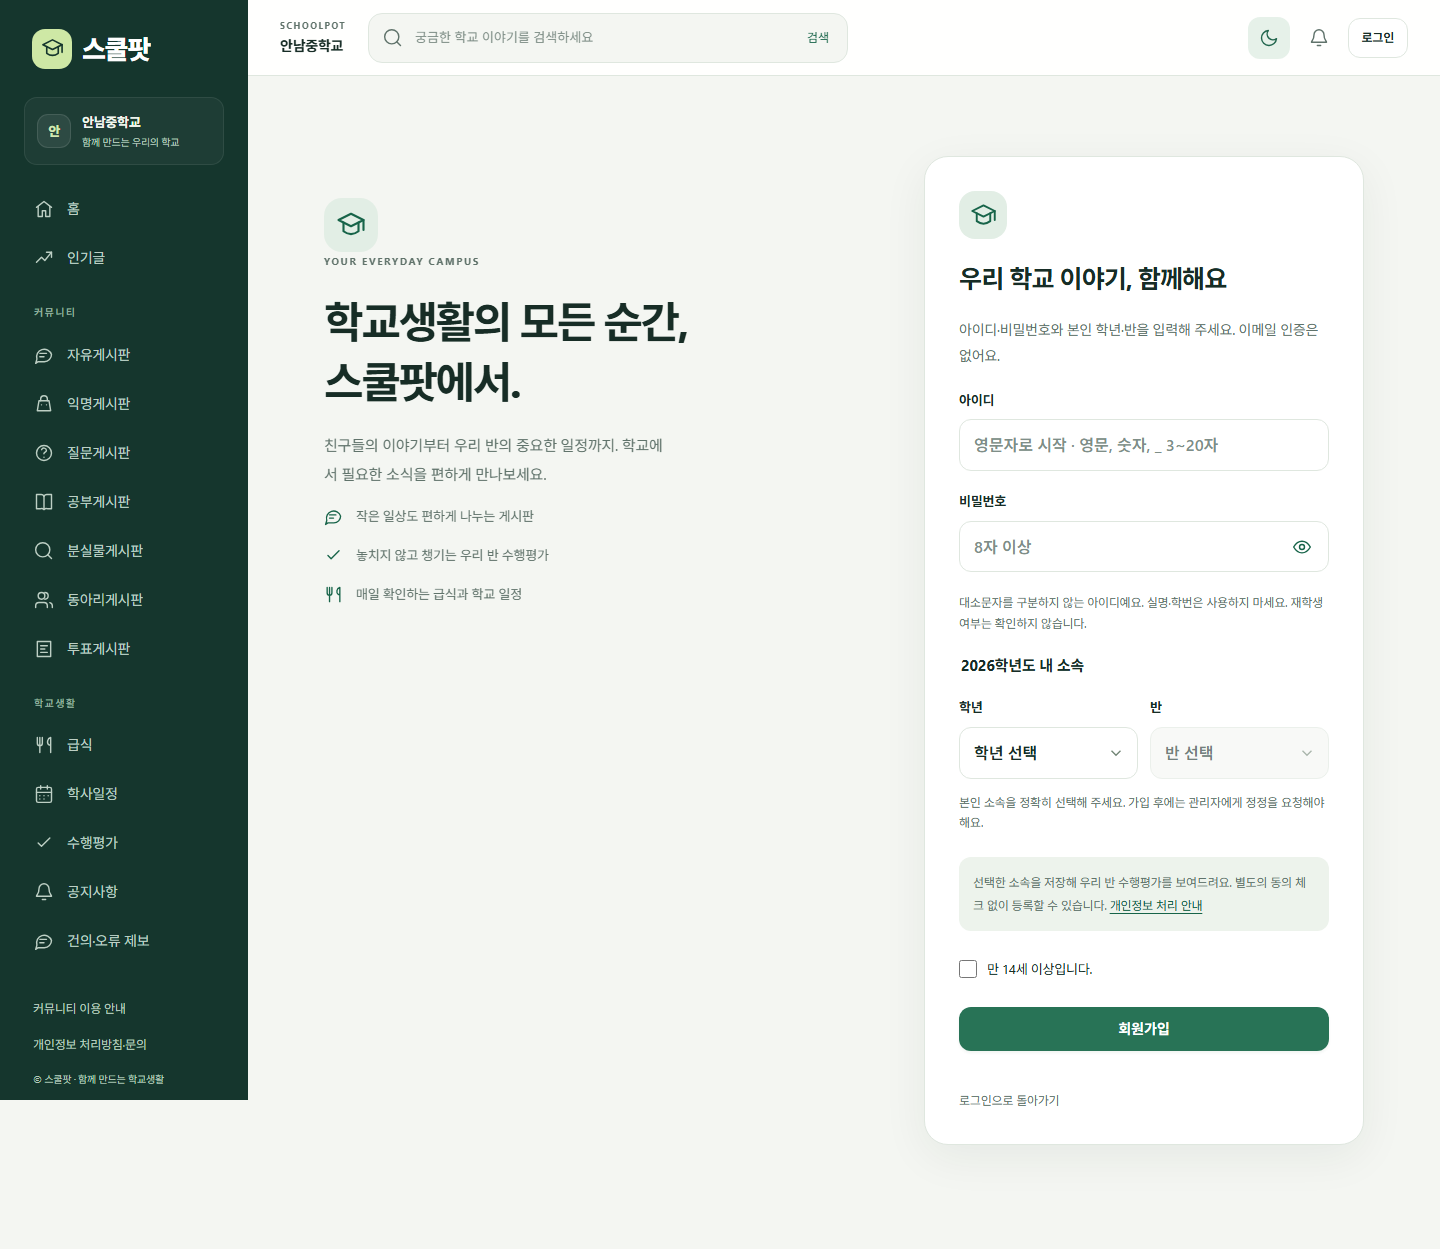
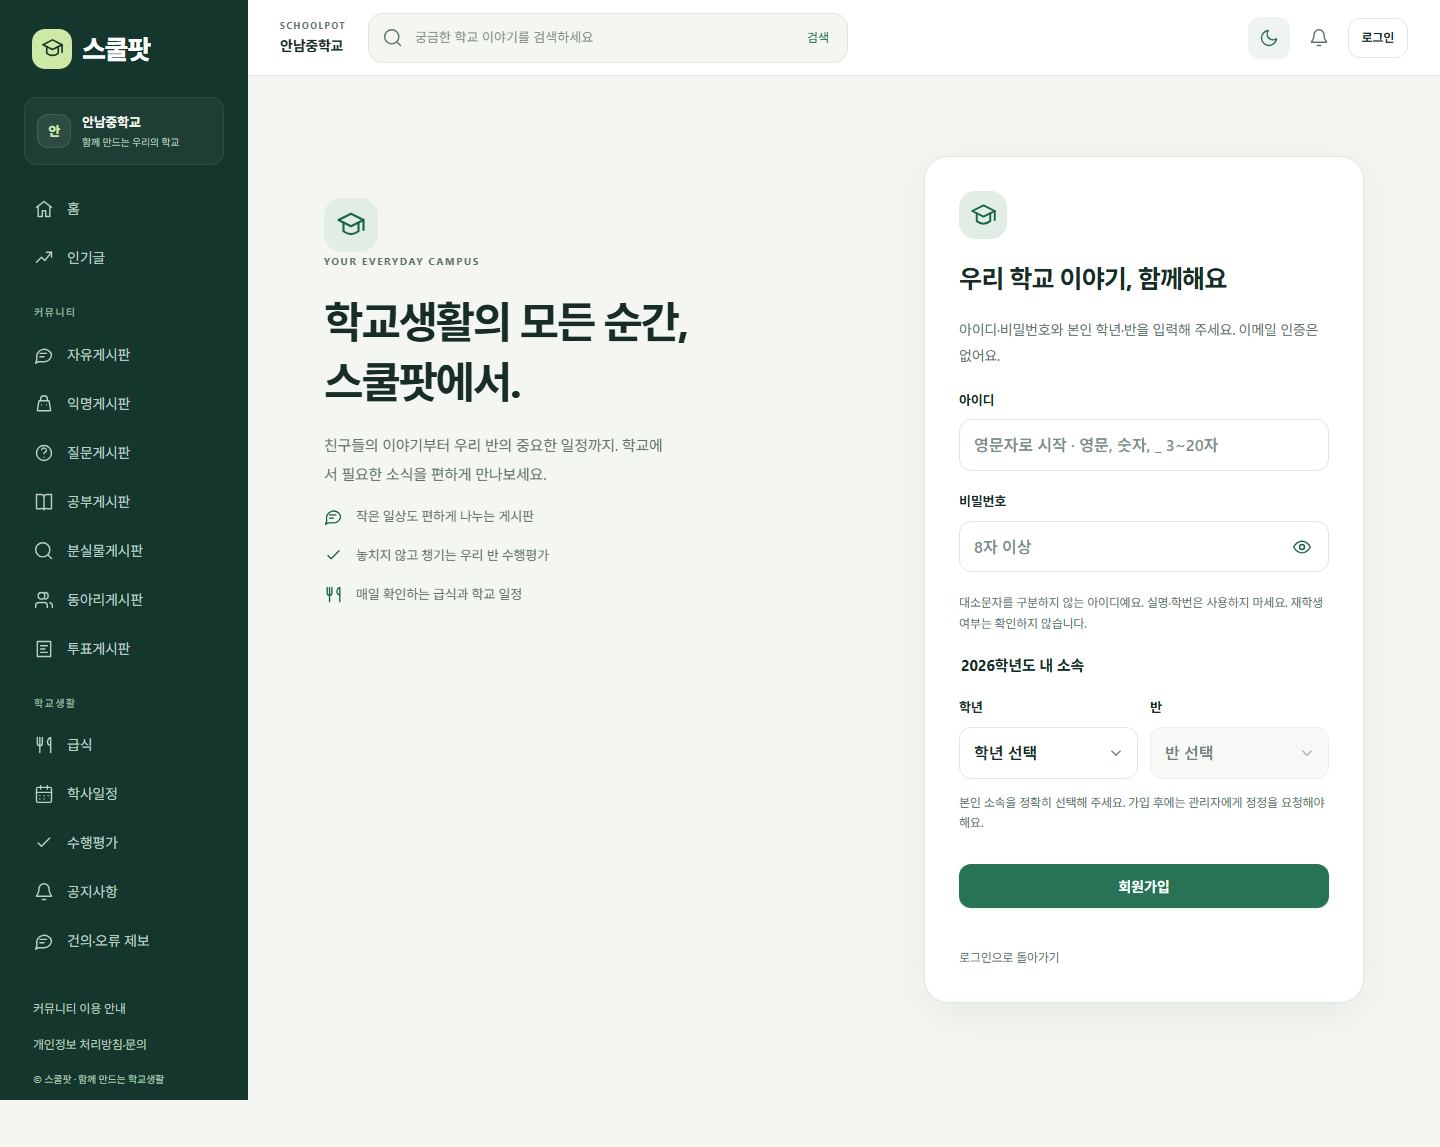
Remove withdrawn contact and simplify privacy and signup prompts

diff --git a/src/components/enrollment.js b/src/components/enrollment.js
@@ -1,4 +1,4 @@
-import { el, link } from '../lib/dom.js';
+import { el } from '../lib/dom.js';
 export function privacyContent(setup) {
   const p = setup.policy;
   return el(
@@ -6,32 +6,6 @@ export function privacyContent(setup) {
     { class: 'privacy-content prose' },
     el('p', { class: 'hint' }, `개인정보처리자: ${p.controller} · 문서 버전 ${p.version}`),
     ...p.sections.map(([title, body]) => el('section', {}, el('h3', {}, title), el('p', {}, body))),
-    el('h3', {}, '위탁·국외 처리 및 보안 기록'),
-    el(
-      'p',
-      { class: 'preserve' },
-      p.overseas_notice ||
-        '처리업체·처리 국가·로그 및 백업 보유기간의 상세 안내는 운영자가 확인 중입니다. 문의는 아래 이메일로 접수할 수 있습니다.',
-    ),
-    el('h3', {}, '개인정보 문의와 권리행사'),
-    p.contact_email
-      ? el('a', { class: 'privacy-email', href: `mailto:${p.contact_email}` }, p.contact_email)
-      : null,
-    el(
-      'p',
-      {},
-      '서비스 내 건의·오류 제보 또는 로그인 없이 이용할 수 있는 외부 문의 경로를 사용해 주세요.',
-    ),
-    el(
-      'a',
-      { href: p.contact_url, target: '_blank', rel: 'noopener noreferrer' },
-      '스쿨팟 개인정보 문의 (외부 사이트)',
-    ),
-    el(
-      'p',
-      { class: 'hint' },
-      '개인정보 열람·정정·삭제·처리정지와 동의 철회에 관한 문의도 위 경로로 접수할 수 있습니다.',
-    ),
   );
 }
 export function enrollmentFields(setup, existing) {
@@ -85,12 +59,6 @@ export function enrollmentFields(setup, existing) {
       { class: 'hint' },
       '본인 소속을 정확히 선택해 주세요. 가입 후에는 관리자에게 정정을 요청해야 해요.',
     ),
-    el(
-      'p',
-      { class: 'processing-note' },
-      '선택한 소속을 저장해 우리 반 수행평가를 보여드려요. 별도의 동의 체크 없이 등록할 수 있습니다. ',
-      link('개인정보 처리 안내', '#/privacy', 'inline-link'),
-    ),
   );
 }
 export function enrollmentPayload(form, setup, existing) {
@@ -100,6 +68,5 @@ export function enrollmentPayload(form, setup, existing) {
     grade: existing?.grade || Number(data.get('grade')),
     class_number: existing?.class_number || Number(data.get('class_number')),
     policy_version: setup.policy.version,
-    age_14_confirmed: data.has('age_14_confirmed'),
   };
 }

diff --git a/src/config/privacy.js b/src/config/privacy.js
@@ -5,18 +5,10 @@ export const privacySections = [
   ],
   [
     '최소 수집 항목',
-    '계정과 소속 정보, 가입 시 만 14세 이상 본인 확인, 로그인 세션과 서비스 운영 기록 및 본인이 작성한 내용입니다. 학생 실명·학번·학생증·생년월일·실제 이메일은 요구하지 않습니다. 별도의 광고·홍보 동의나 추적 기능은 추가하지 않습니다.',
+    '계정과 소속 정보, 로그인 세션과 서비스 운영 기록 및 본인이 작성한 내용입니다. 학생 실명·학번·학생증·생년월일·실제 이메일은 요구하지 않습니다. 별도의 광고·홍보 동의나 추적 기능은 추가하지 않습니다.',
   ],
   [
     '보유 및 삭제',
-    '계정·소속과 계정 연결 작성 내용은 회원탈퇴 시 운영 DB에서 삭제합니다. 본인 게시글에 달린 답글도 삭제될 수 있습니다. 외부 처리업체 로그·백업과 별도 보안 기록은 해당 처리방침과 운영 조건을 따르므로 즉시 완전 삭제를 보장하지 않습니다.',
-  ],
-  [
-    '열람·정정·삭제·처리정지',
-    '로그인한 회원은 계정 관리와 건의·오류 제보를 이용할 수 있고, 로그인할 수 없거나 탈퇴한 뒤에도 공개된 이메일로 개인정보 권리행사를 요청할 수 있습니다. 비밀번호·복구 코드·주민등록번호·학생증 사본은 이메일에 보내지 마세요. 필요한 범위에서 본인 확인 후 처리 결과와 제한 사유 및 이의제기 방법을 안내합니다.',
-  ],
-  [
-    '소속과 연령 안내',
-    '가입 시 만 14세 이상임을 확인합니다. 소속과 연령은 자기 신고이며 실제 재학생·연령 인증이 아닙니다. 같은 학년도에서 소속을 임의 변경할 수 없고 정정은 관리자에게 요청합니다.',
+    '계정·소속과 계정 연결 작성 내용은 회원탈퇴 시 운영 DB에서 삭제합니다. 본인 게시글에 달린 답글도 삭제될 수 있습니다.',
   ],
 ];

diff --git a/src/pages/admin-classes.js b/src/pages/admin-classes.js
@@ -206,7 +206,6 @@ export async function privacyManager(reload) {
           await schoolMembership('admin_save_policy', {
             version: p.version,
             controller: data.get('controller'),
-            contact_email: data.get('contact_email'),
             contact_url: data.get('contact_url'),
             overseas_notice: data.get('overseas_notice'),
             is_ready: data.has('is_ready'),
@@ -237,11 +236,6 @@ export async function privacyManager(reload) {
       maxlength: 400,
       value: p.contact_url,
     }),
-    field('개인정보 문의 이메일', 'contact_email', 'email', {
-      required: true,
-      maxlength: 254,
-      value: p.contact_email || 'kminjae803@naver.com',
-    }),
     field('위탁·국외 처리·보안 기록 보유기간 안내', 'overseas_notice', 'textarea', {
       required: true,
       maxlength: 8000,
@@ -252,11 +246,7 @@ export async function privacyManager(reload) {
       { class: 'hint' },
       'Supabase 프로젝트 DB 리전은 한국 서울입니다. 이것만으로 인증·Edge·지원·하위 처리업체와 GitHub Pages의 모든 처리가 국내에만 있다고 볼 수는 없습니다. 실제 계약·하위 처리업체·국가·연락처·이전 항목/시점/방법·목적·보유기간·거부 방법과 영향을 확인해 명시하세요. 보안 해시 카운터의 보유기간과 외부 사업자 로그·백업의 삭제 절차도 고지해야 합니다.',
     ),
-    el(
-      'p',
-      { class: 'hint' },
-      '공개 이메일의 문의를 정기적으로 확인해 주세요. 문서 저장과 검토 표시만으로 법적 검토가 완료되는 것은 아닙니다.',
-    ),
+    el('p', { class: 'hint' }, '문서 저장과 검토 표시만으로 법적 검토가 완료되는 것은 아닙니다.'),
     el(
       'label',
       { class: 'checkbox' },

diff --git a/src/main.js b/src/main.js
@@ -171,7 +171,7 @@ async function render() {
           el(
             'p',
             {},
-            '만 14세 이상인 분이 아이디·8자 이상 비밀번호·본인 학년과 반을 입력하고 가입할 수 있어요. 이메일 인증이나 재학생 인증 신청은 받지 않으며, 연령·소속은 본인 신고에 따릅니다.',
+            '아이디·8자 이상 비밀번호·본인 학년과 반을 입력하고 가입할 수 있어요. 이메일 인증이나 재학생 인증 신청은 받지 않으며, 연령·소속은 본인 신고에 따릅니다.',
           ),
           el('h2', {}, '안전한 커뮤니티'),
           el(

diff --git a/src/pages/auth-form.js b/src/pages/auth-form.js
@@ -137,14 +137,6 @@ export async function authPage(mode, refresh) {
         )
       : null,
     signup ? enrollmentFields(setup) : null,
-    signup
-      ? el(
-          'label',
-          { class: 'checkbox age-check' },
-          el('input', { type: 'checkbox', name: 'age_14_confirmed', required: true }),
-          '만 14세 이상입니다.',
-        )
-      : null,
     !signup && !reset && !update
       ? el(
           'div',

diff --git a/supabase/functions/accounts/handler.ts b/supabase/functions/accounts/handler.ts
@@ -83,7 +83,6 @@ export async function handleAccount(req: Request) {
         grade: body.grade,
         class_number: body.class_number,
         policy_version: body.policy_version,
-        age_14_confirmed: body.age_14_confirmed,
       };
       await gateway("validate_signup", enrollment);
       const { data, error } = await admin.auth.admin.createUser({

diff --git a/tests/e2e/school.js b/tests/e2e/school.js
@@ -21,5 +21,4 @@ export const enrolled = {
 export async function agreeSignup(page, grade = '1', classroom = '1') {
   await page.getByLabel('학년', { exact: true }).selectOption(grade);
   await page.getByLabel('반', { exact: true }).selectOption(classroom);
-  for (const name of ['age_14_confirmed']) await page.locator(`input[name=${name}]`).check();
 }

diff --git a/tests/e2e/account-live.spec.js b/tests/e2e/account-live.spec.js
@@ -54,7 +54,6 @@ test('실제 자동로그인 선택·해제 복원과 비밀번호 재확인 회
         grade,
         class_number: 1,
         policy_version: setup.policy.version,
-        age_14_confirmed: true,
       },
     });
     expect(registered.error).toBe(null);

diff --git a/AGENTS.md b/AGENTS.md
@@ -15,8 +15,8 @@
 - 변경사항, 실패 및 해결, 남은 작업을 `docs/progress.md`에 기록한다. 배포·운영 완료는 실제 검증 전 주장하지 않는다.
 - 사이트 진입 팝업은 명시적으로 공개한 안내만 비회원에게 제공한다. `site_popups()`의 공개 읽기 예외를 커뮤니티 테이블이나 관리자 API로 확대하지 않는다. 팝업 관리에는 현재 계정·세션·역할 검사를 유지하고, 기본 닫기는 제거할 수 없게 한다.
 - 운영 중인 게시판의 이름·설명·유형·순서·운영 상태는 기존 공개 메뉴와 같이 `board_catalog()`로 비회원에게 제공한다. 숨김 게시판과 글·댓글·문의는 이 공개 메타데이터에 포함하지 않는다. 건의·오류 제보는 작성자와 관리자만 조회한다.
-- 최신 결정(2026-11-12): 회원가입·소속 등록 시 학년도·학년·반을 동의 체크 없이 선택한다. 개인정보 동의를 자동으로 만들어 기록하지 않는다. 만 14세 이상이라는 본인 확인 체크를 요구하며 생년월일·학생 실명·학번은 수집하지 않는다. 실제 연령·재학생 인증으로 표시하지 않는다.
+- 최신 결정(2026-11-13): 회원가입·소속 등록 시 학년도·학년·반을 동의·연령 체크 없이 선택한다. 개인정보 동의나 연령 확인을 자동으로 만들어 기록하지 않는다. 생년월일·학생 실명·학번은 수집하지 않으며 실제 연령·재학생 인증으로 표시하지 않는다. 가입 화면의 개인정보 안내 문구·링크는 제거한다.
 - 수행평가는 DB 소속의 학년도·학년·반으로만 조회·작성·수정·신고한다. 관리자에게도 다른 반 본문 조회 예외를 두지 않는다. 반 수는 관리자 설정이며 회원의 임의 소속 변경을 금지한다. 기존 미분류 일정은 작성자만 이관·삭제한다.
 - 최신 보유 결정: 탈퇴 시 계정 연결 작성 내용·소속·동의 기록을 삭제한다. 과거의 본문 보존 지침보다 우선한다. 외부 업체 로그·백업 및 보안 해시 보유를 탈퇴 즉시 완전 삭제했다고 단정하지 않는다.
-- 가입 가능 여부는 실제 반 수 설정으로 판단하며 문서 검토 상태를 가입 차단 조건으로 사용하지 않는다. 개인정보 문의 이메일은 kminjae803@naver.com이다. 실제 처리업체/국외 처리 고지는 운영자가 확인하며 법적 운영 완료를 주장하지 않는다. 정책 전문은 서버의 버전별 스냅샷과 일치시킨다.
+- 가입 가능 여부는 실제 반 수 설정으로 판단하며 문서 검토 상태를 가입 차단 조건으로 사용하지 않는다. 사용자가 철회한 운영자 개인 이메일을 소스나 공개 문서에 복원하지 않는다. 공개 처리방침의 위탁·국외 처리·보안 기록 및 문의·권리행사 섹션은 사용자 요청으로 제거한다. 법적 운영 완료를 주장하지 않으며 정책 전문은 서버 스냅샷과 일치시킨다.
 - `school_setup()`의 공개 읽기는 학년도·반 수·현재 공개 개인정보 문서에만 적용한다. 회원 소속·동의 기록·이전 문서 관리 데이터는 공개 projection에 포함하지 않는다.

diff --git a/docs/classes-privacy.md b/docs/classes-privacy.md
@@ -1,6 +1,6 @@
 # 반별 수행평가와 개인정보 운영
 
-2026-11-12 최신 결정: 회원가입과 기존 회원의 학년·반 선택에 개인정보 동의 체크를 요구하지 않습니다. 가입 시 만 14세 이상 본인 확인은 유지합니다. 학생 실명·학번·학생증·생년월일·실제 이메일은 수집하지 않습니다. 연령과 소속은 자기 신고이며 실제 재학생 인증이 아닙니다.
+2026-11-13 최신 결정: 회원가입과 기존 회원의 학년·반 선택에 개인정보 동의·연령 확인 체크를 요구하지 않습니다. 학생 실명·학번·학생증·생년월일·실제 이메일은 수집하지 않습니다. 소속은 자기 신고이며 실제 재학생 인증이 아닙니다. 새 계정의 연령 확인 시각은 null입니다.
 
 관리자가 학년도와 학년별 마지막 반 번호를 설정합니다. 0은 해당 학년 등록 중지입니다. 운영 설정 [7,7,7]을 초기화하지 않습니다. 개인정보 문서 검토 상태는 가입·소속 등록을 차단하지 않습니다. 현재 공개 문서와 문의 이메일은 관리자에서 수정합니다.
 
@@ -8,7 +8,7 @@
 
 새 기록은 collection_basis=service_contract와 안내 시각을 저장합니다. 동의·국외 처리 동의 시각은 null이며 허위 동의를 만들지 않습니다. 기존 실제 동의는 원래 문서 버전과 보존합니다. 문서 변경으로 기존 소속을 차단하거나 반 변경을 허용하지 않습니다.
 
-문의 이메일은 [kminjae803@naver.com](mailto:kminjae803@naver.com)이며 로그인 불가·탈퇴 후에도 이용할 수 있습니다. 기존 SPContact는 보조 링크로 개설 여부를 별도 확인해야 합니다. 비밀번호·복구 코드는 문의로 보내지 않도록 안내합니다.
+사용자 요청으로 개인 이메일은 현재 소스·현재 정책 및 보관 정책 문서에서 삭제했습니다. 공개 처리방침에서 위탁·국외 처리·보안 기록과 문의·권리행사 섹션을 제거했고 가입의 처리 안내 문구·링크도 제거했습니다. 기존 Git 커밋과 제3자 복제·캐시·외부 백업 삭제까지 보장하지 않습니다.
 
 탈퇴 시 운영 DB의 계정·소속·기존 동의·계정 연결 작성 내용을 삭제합니다. 본인 게시글의 타인 답글도 함께 삭제될 수 있습니다. 외부 업체 로그·백업까지 즉시 완전 삭제한다고 보장하지 않습니다. 보안 카운터는 기존의 7일 경과분 후속 요청 정리 방식이며 엄격한 최대 7일 보유라고 표시하지 않습니다.
 
